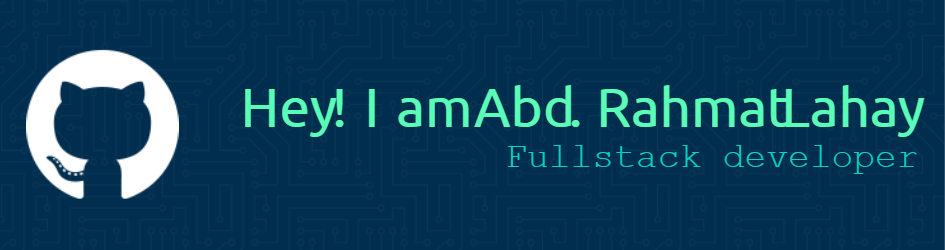
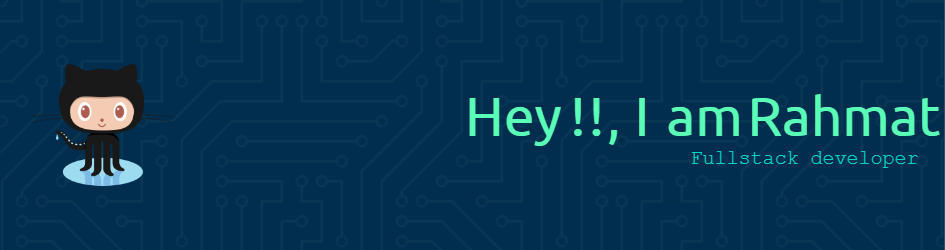
Tambahkan bagian keterampilan dan sistem operasi di README.md serta perbarui gambar header.

Changed region(s): [[0.2455, 0.336, 1.0, 0.7], [0.0, 0.196, 0.2148, 0.812]]

diff --git a/README.md b/README.md
@@ -1,11 +1,17 @@
-## Hello World !!, i'm Rahmat Lahay
-
 ![img_test](img/github-header-image.png)
 
 - I'm Fullstack Developer on **@webentercode**
 - I’m interested in web development, especially PHP & Laravel
 - I’m currently learning Front-end development with Vue.js
 - I’m looking to collaborate on Laravel-based projects
-- How to reach me: lhymate@gmail.com.
+- How to reach me: 📧 lhymate@gmail.com
 
 ![img_test](https://media.giphy.com/media/v1.Y2lkPTc5MGI3NjExeXhjemZwaWRmY3NpbmZ4bGVzM2dreDI1Znl6ZGF2cXd2a3k1NHhiYiZlcD12MV9naWZzX3NlYXJjaCZjdD1n/11kEuHSQAXXiGQ/giphy.gif)
+
+##### skills
+
+![image](https://img.shields.io/badge/HTML5-E34F26?style=for-the-badge&logo=html5&logoColor=white) ![image](https://img.shields.io/badge/CSS3-1572B6?style=for-the-badge&logo=css3&logoColor=white) ![image](https://img.shields.io/badge/PHP-777BB4?style=for-the-badge&logo=php&logoColor=white) ![image](https://img.shields.io/badge/JavaScript-323330?style=for-the-badge&logo=javascript&logoColor=F7DF1E) ![image](https://img.shields.io/badge/Laravel-FF2D20?style=for-the-badge&logo=laravel&logoColor=white) ![image](https://img.shields.io/badge/Laragon-0E83CD?style=for-the-badge&logo=Laragon&logoColor=white) ![image](https://img.shields.io/badge/Nginx-009639?style=for-the-badge&logo=nginx&logoColor=white) ![image](https://img.shields.io/badge/MySQL-005C84?style=for-the-badge&logo=mysql&logoColor=white)
+
+##### OS
+
+![image](https://img.shields.io/badge/Windows_11-0078d4?style=for-the-badge&logo=windows-11&logoColor=white) ![image](https://img.shields.io/badge/Ubuntu-E95420?style=for-the-badge&logo=ubuntu&logoColor=white)
